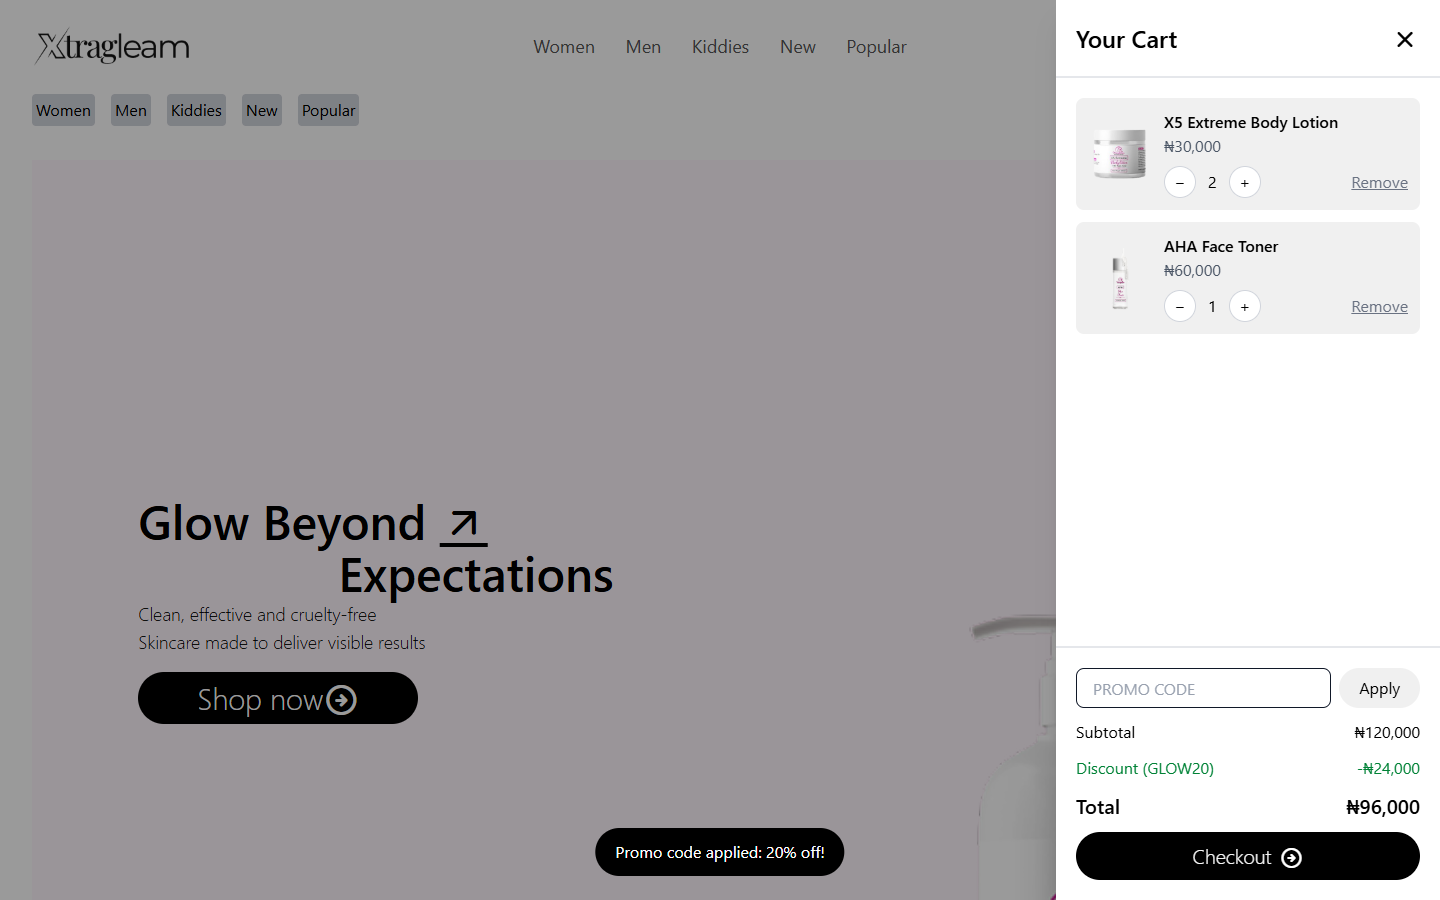
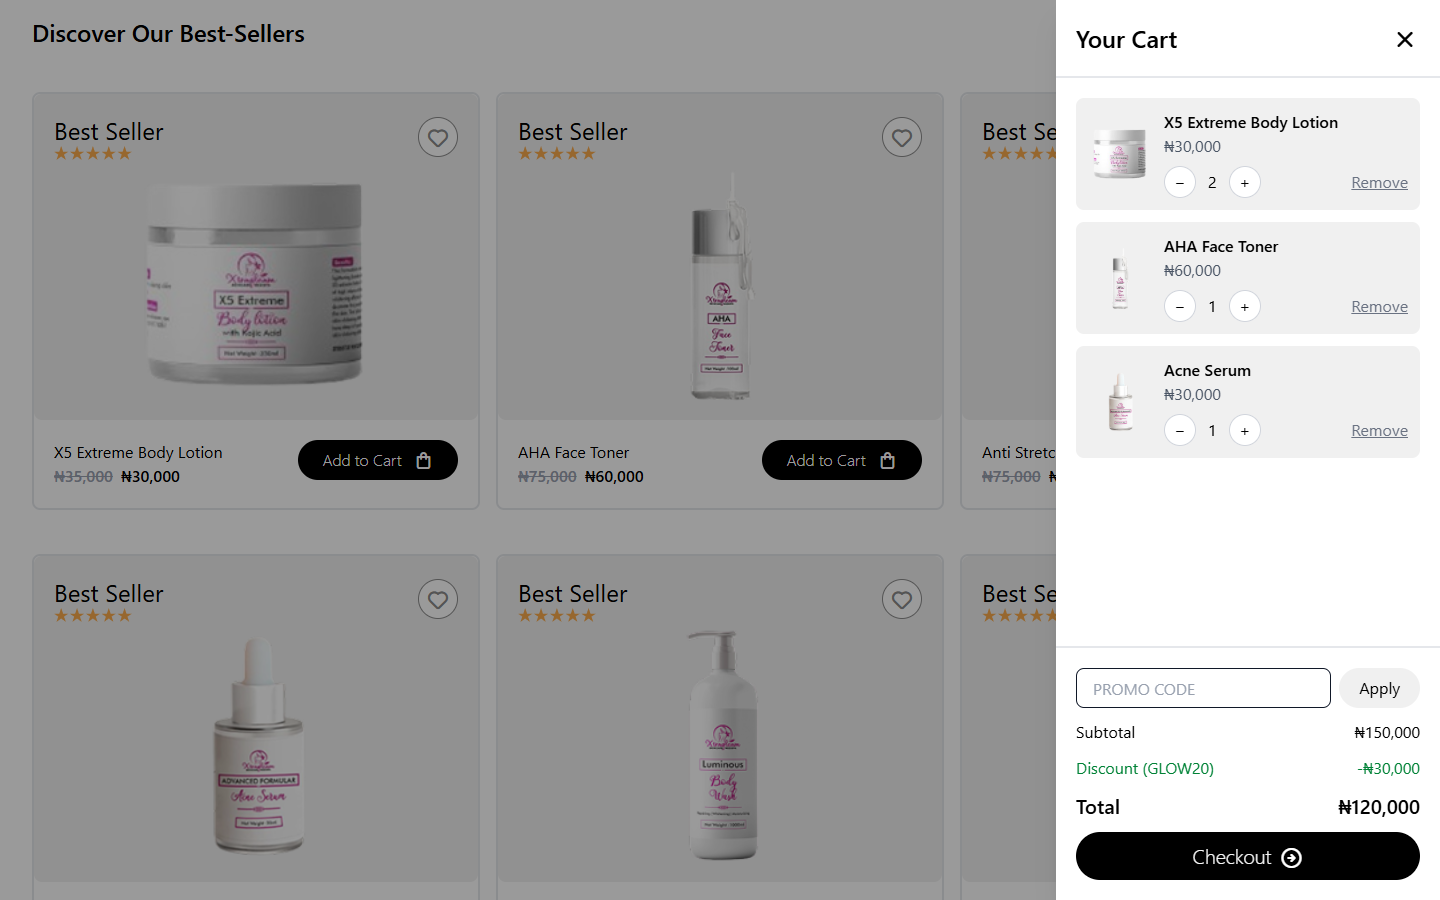
Update README description and feature screenshots

diff --git a/README.md b/README.md
@@ -1,6 +1,8 @@
 # Xtragleam — Skincare E-Commerce Landing Page
 
-A responsive landing page for **Xtragleam**, a fictional clean-beauty skincare brand. Built with HTML, Tailwind CSS and vanilla JavaScript, it covers a hero section, product showcase, testimonials, a live countdown offer banner, a blog teaser and a newsletter footer — and adapts from mobile to large desktop screens.
+A responsive, interactive skincare store landing page for **Xtragleam**, a fictional clean-beauty brand. Built with HTML, Tailwind CSS and vanilla JavaScript — no frameworks, no build step.
+
+Shoppers can browse best-sellers, search and filter products, save favourites to a wishlist, and add items to a slide-in cart with quantity controls, a working `GLOW20` promo code and checkout. The page also includes a live offer countdown, customer testimonials, an expandable skincare guide and a newsletter signup — all mobile-first and fully responsive, with the cart and wishlist saved in the browser between visits.
 
 **🔗 Live demo:** https://laurence421.github.io/-Skincare-E-Commerce-Landing-Page/
 
@@ -23,19 +25,33 @@ A responsive landing page for **Xtragleam**, a fictional clean-beauty skincare b
 
 ## Screenshots
 
-### Desktop — full page
+### Desktop
+
+| Cart with `GLOW20` promo applied | Wishlist |
+| :---: | :---: |
+| <img src="screenshots/desktop-cart.png" alt="Cart drawer with GLOW20 discount applied" width="420"> | <img src="screenshots/desktop-wishlist.png" alt="Wishlist drawer with saved products" width="420"> |
+| **Search results for "lotion"** | **Best-sellers with saved (filled) hearts** |
+| <img src="screenshots/desktop-search.png" alt="Product search results" width="420"> | <img src="screenshots/desktop-products.png" alt="Product grid with wishlist hearts" width="420"> |
+
+<details>
+<summary><strong>Full desktop page</strong></summary>
 
 <img src="screenshots/desktop-full.png" alt="Full desktop page" width="700">
 
-### Cart with promo code
-
-<img src="screenshots/desktop-cart.png" alt="Cart drawer with GLOW20 discount applied" width="700">
+</details>
 
 ### Mobile
 
-| Home | Menu open | Full page |
+| Home | Menu with cart & wishlist counts | Cart |
 | :---: | :---: | :---: |
-| <img src="screenshots/mobile-hero.png" alt="Mobile hero" width="220"> | <img src="screenshots/mobile-menu.png" alt="Mobile menu open" width="220"> | <img src="screenshots/mobile-full.png" alt="Mobile full page" width="220"> |
+| <img src="screenshots/mobile-hero.png" alt="Mobile hero" width="220"> | <img src="screenshots/mobile-menu.png" alt="Mobile menu open with badges" width="220"> | <img src="screenshots/mobile-cart.png" alt="Mobile cart drawer" width="220"> |
+
+<details>
+<summary><strong>Full mobile page</strong></summary>
+
+<img src="screenshots/mobile-full.png" alt="Full mobile page" width="300">
+
+</details>
 
 ## Built with
 
